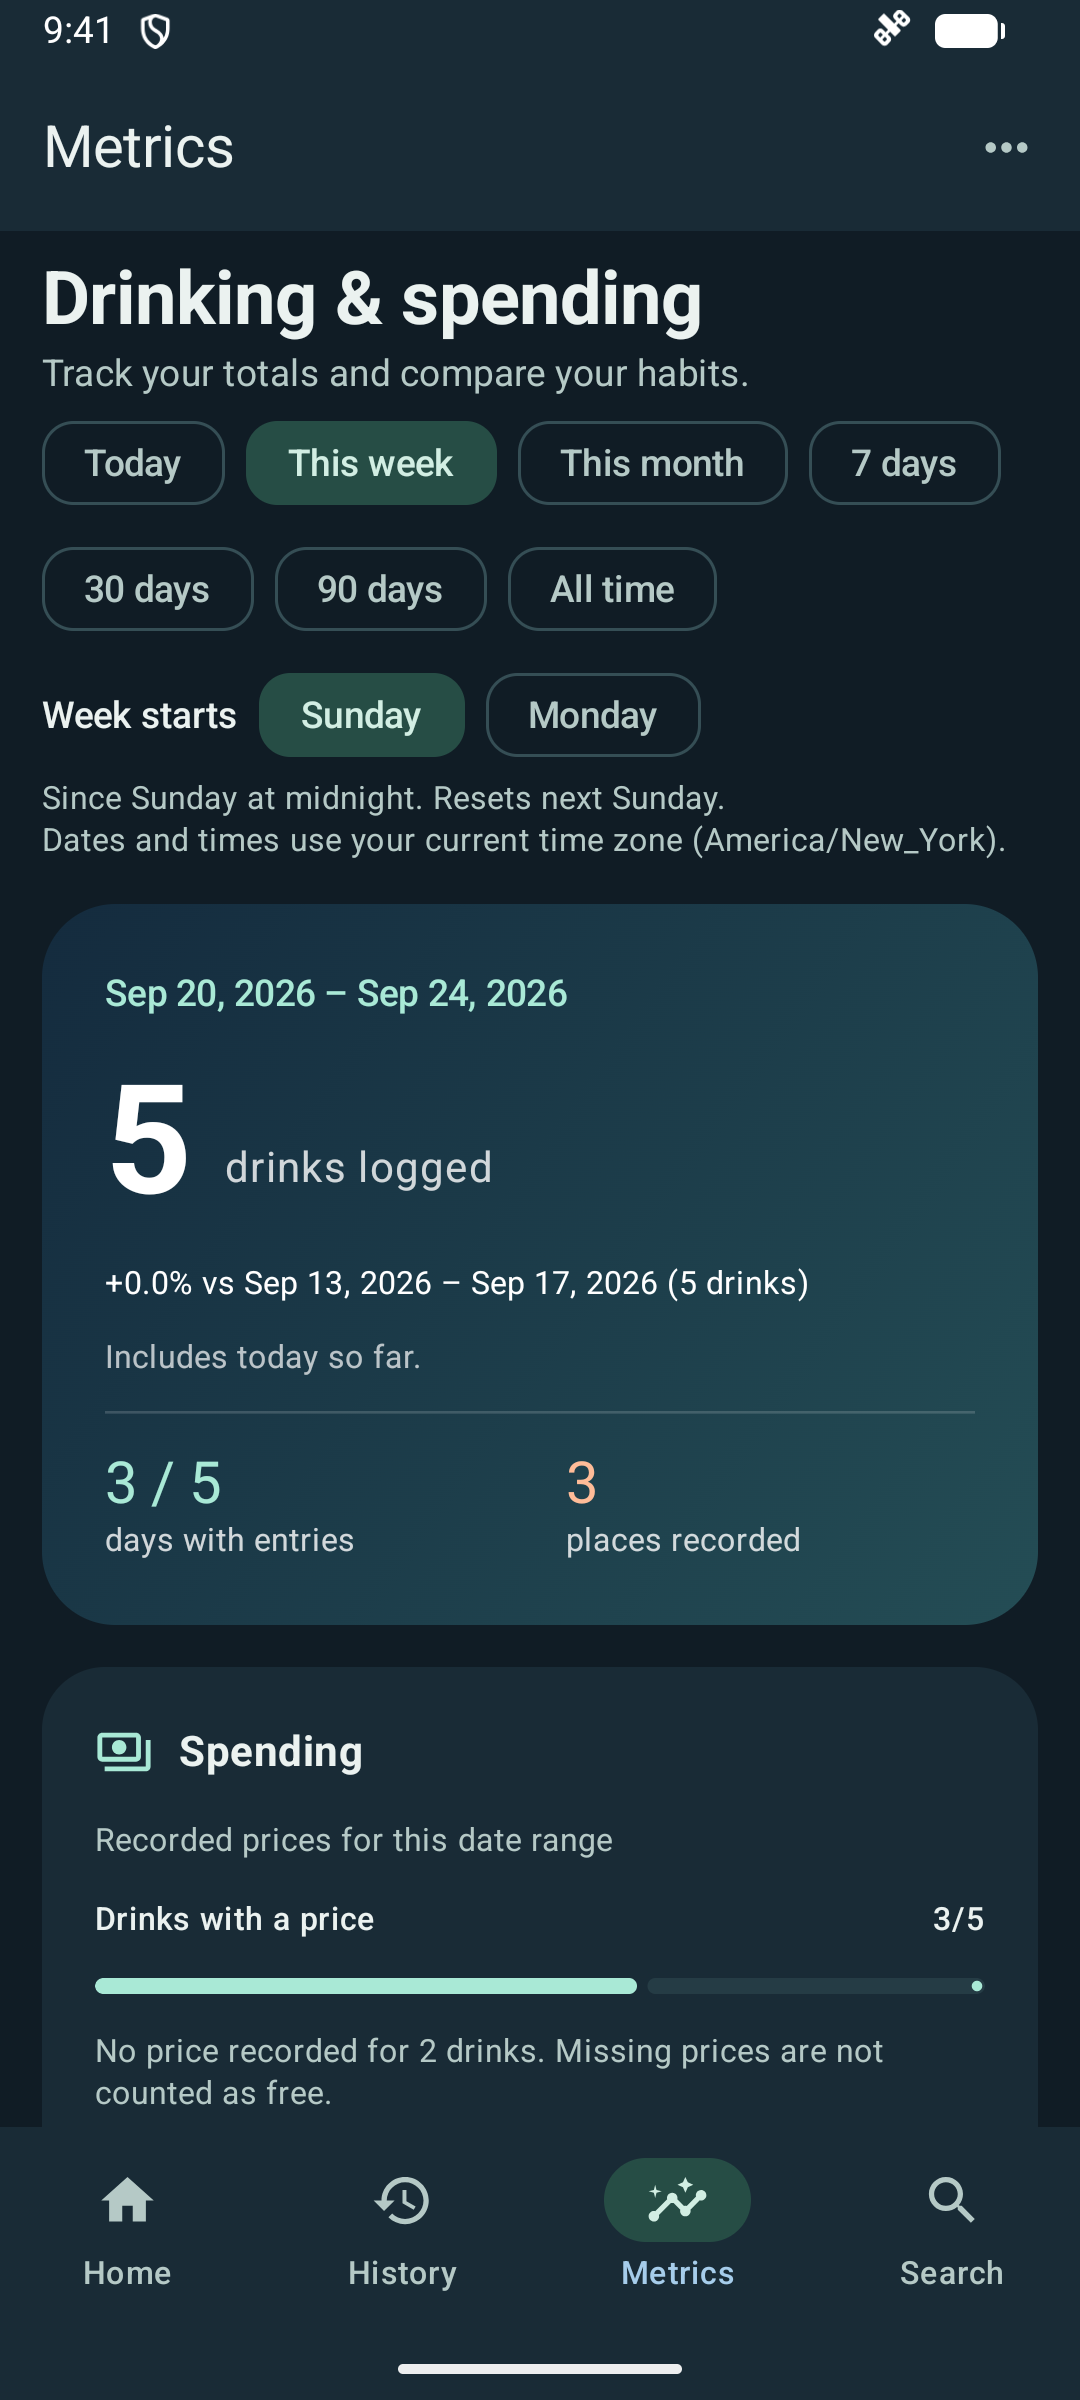
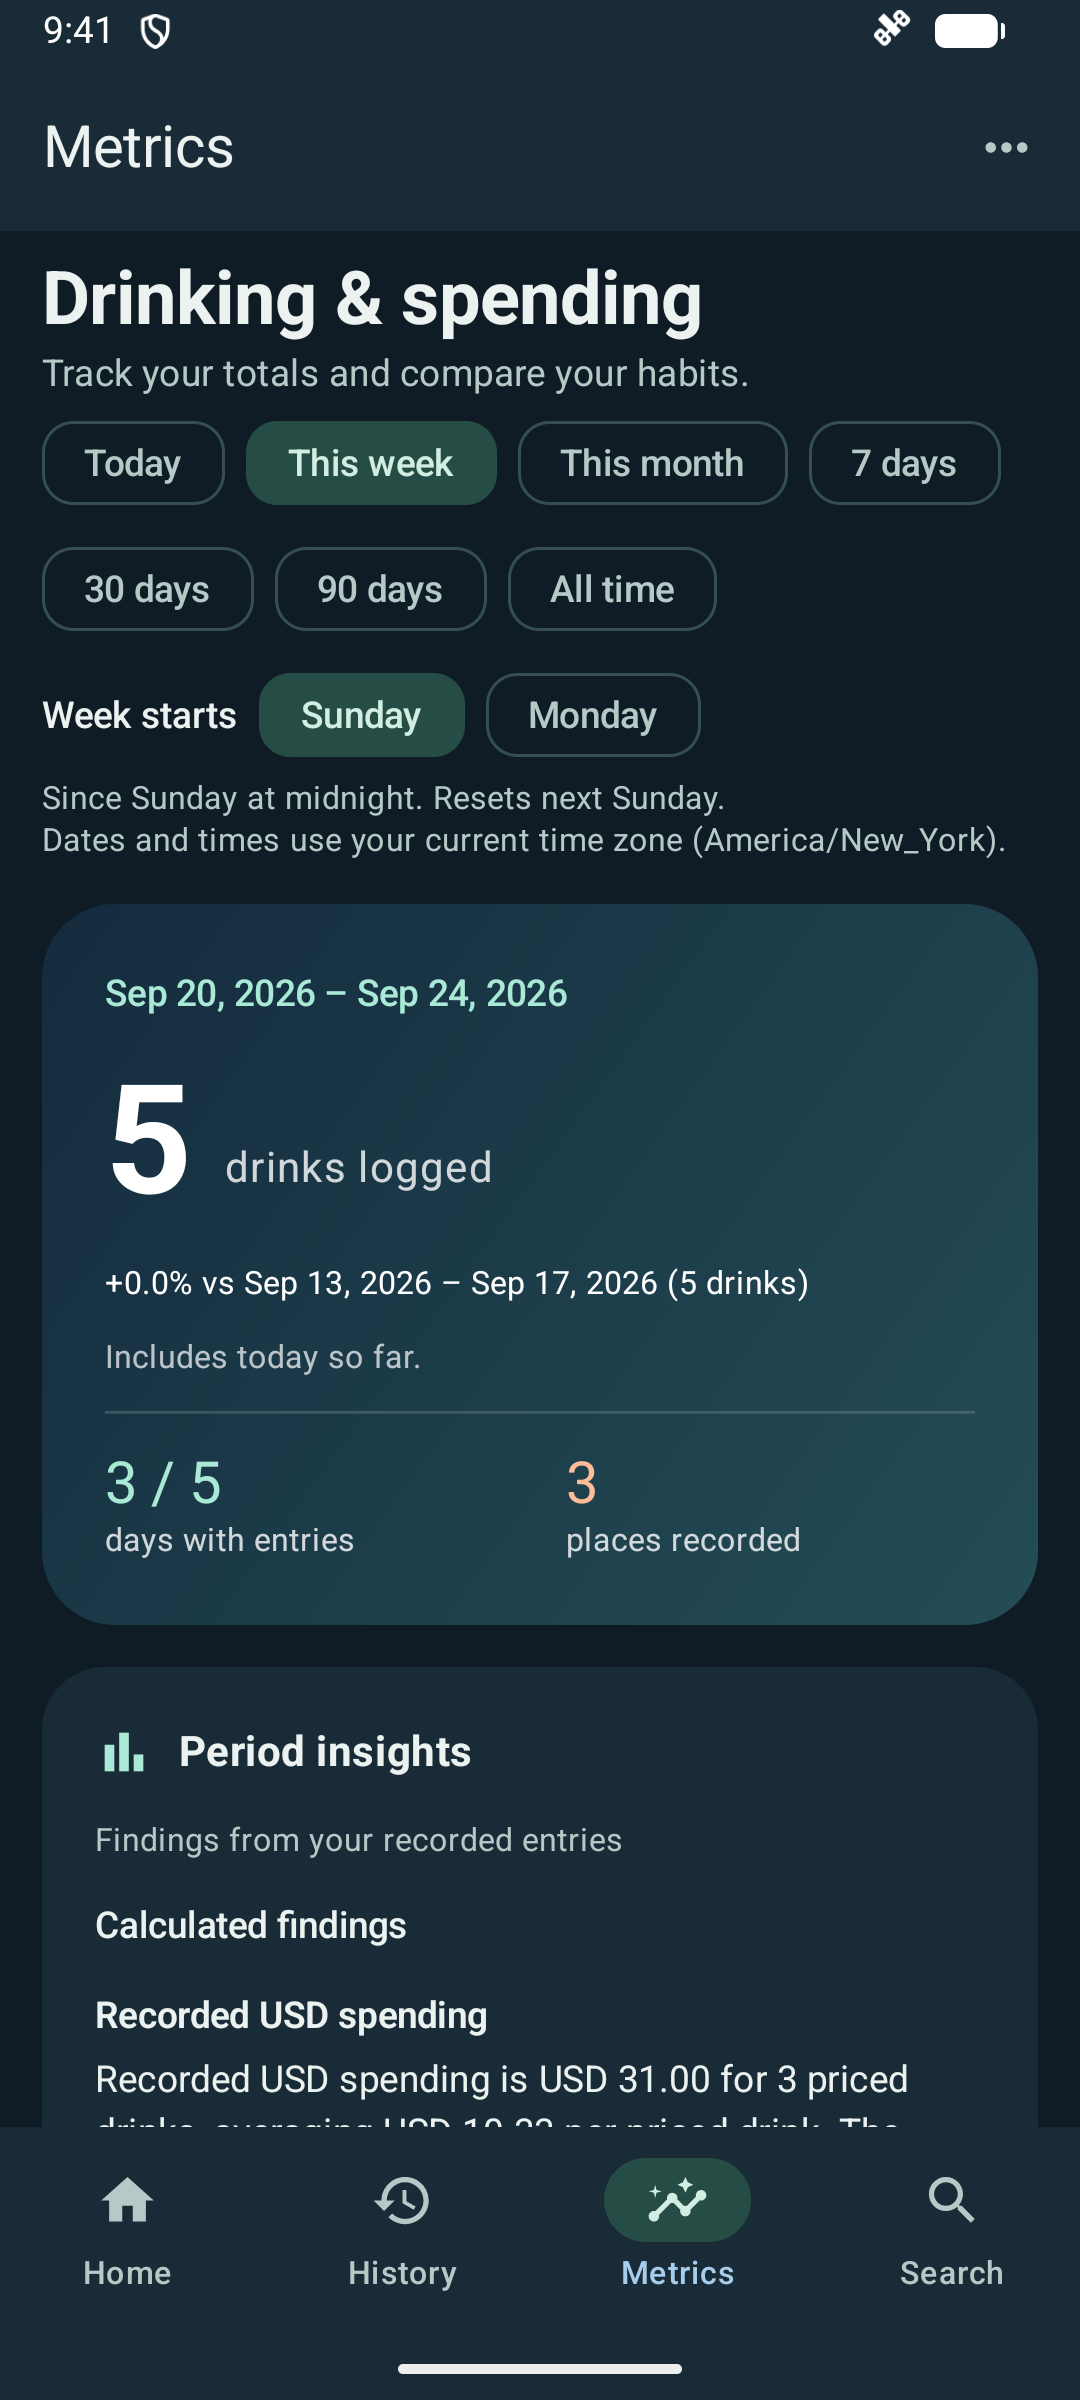
Align release marketing with current app insights

Changed region(s): [[0.0917, 0.7188, 0.8556, 0.875], [0.8556, 0.7812, 0.9167, 0.8125]]

diff --git a/src/App.tsx b/src/App.tsx
@@ -430,7 +430,7 @@ function HomePage() {
             <Icon name="book" /> No account needed
           </span>
           <span>
-            <Icon name="offline" /> Offline logging & insights
+            <Icon name="offline" /> Offline logging & calculated insights
           </span>
           <span>
             <Icon name="grid" /> Every feature free
@@ -547,8 +547,8 @@ function HomePage() {
             <h3>No account. Your device.</h3>
             <p>
               Logging and insights run on your device. Export a backup when you
-              want a separate copy. Google services for ads and purchases have
-              their own data practices.
+              want a separate copy. Google services for ads, purchases, and
+              optional AI have their own data practices.
             </p>
             <a href={href("/privacy/")} className="text-link">
               Read the privacy policy
@@ -733,7 +733,7 @@ const questions = [
   ],
   [
     "Does it work without an internet connection?",
-    "Logging, the drink catalog, saved places, and insights work offline. Ads and Google Play purchase checks use internet services.",
+    "Logging, the drink catalog, saved places, and calculated insights work offline. Ads, Google Play purchase checks, and Google AI services' independent updates, configuration and diagnostics can use internet services.",
   ],
   [
     "Can I use milliliters instead of ounces?",
@@ -749,7 +749,7 @@ const questions = [
   ],
   [
     "Can I save different prices for the same drink?",
-    "Yes. Add any named prices to a favorite: Regular, Happy hour, Game day, or your own labels. Enter the final amount for each option, then select the one that applies on Home. That choice is reused for repeat +1 now taps. Prices do not switch automatically with times or game schedules, and discounts do not stack automatically. A widget uses the favorite's saved serving, default price, and place.",
+    "Yes. Save named prices to a favorite: Regular, Happy hour, Game day, or your own labels. Enter the final amount for each option, then select the one that applies on Home. That choice is reused for repeat +1 now taps. Prices do not switch automatically with times or game schedules, and discounts do not stack automatically. A widget uses the favorite's saved serving, default price, and place.",
   ],
   [
     "Can I keep different favorites for different pubs?",
@@ -1212,6 +1212,12 @@ function InsightsPage() {
           offer rolling periods, such as the last 24 hours. Time labels follow
           your phone’s 12- or 24-hour clock setting.
         </p>
+        <p className="calendar-explanation">
+          Period insights highlights changes in your recorded totals. Open a
+          finding to see the supporting entries and what the comparison
+          includes. Calculated findings work offline on every phone that runs
+          BarTally, with no AI model needed.
+        </p>
         <div className="insight-grid">
           {[
             [
@@ -1412,6 +1418,16 @@ function InsightsPage() {
           determine whether you can drive.
         </p>
       </aside>
+      <p className="section-shell">
+        <small>
+          Optional local AI explanations appear only on{" "}
+          <a href="https://developers.google.com/ml-kit/genai#prompt_api_device_support">
+            supported phones
+          </a>{" "}
+          with an already available model. BarTally never downloads models.{" "}
+          <a href={href("/privacy/#privacy-local-ai")}>Privacy details</a>.
+        </small>
+      </p>
       <ClosingNote />
     </>
   );

diff --git a/README.md b/README.md
@@ -8,6 +8,12 @@ The voice is direct: **Track your drinks. Track your spending.** Pages explain h
 
 The app’s Backup & restore screen exports portable JSON through Android’s file picker. Restore previews and merges missing records after the user selects **Restore backup**. Current personal records with matching IDs are kept, and repeated imports do not duplicate them. Untouched built-in starter favorites can be replaced by their backup versions; edited favorites remain protected. History snapshots, custom drinks, favorites with prices and places, and saved places are included; settings, widgets, catalog data, and purchase receipts are not. The privacy policy explains that files contain readable personal data and are stored where the user chooses. No crash-reporting SDK or cloud-sync claim has been added.
 
+## Release materials review — September 25, 2026
+
+The app and insights pages match the pending Android release: quantity and time controls, manual JSON recovery, configurable alcohol units, calendar periods, rapid widget logging, and calculated period findings with supporting entries. Optional local AI remains a short note linked to Google's supported-device list and requires an already available model; BarTally never requests model downloads. The privacy policy already covers the included SDKs and support contact.
+
+Both eight-image regional sets, the app icon, social preview, and favicons match the reviewed Android marketing assets. Images omit ads and use fictional entries. The existing beta enrollment route remains until the production listing is confirmed publicly available; publishing this website does not publish the Android app.
+
 ## Local development
 
 The app overview also explains favorites with saved servings, places, and arbitrary named prices. Users select an exact amount manually; there are no automatic happy-hour schedules or stacked discounts. Home repeats the selected price and place. In Search and Favorites, **Log drink** opens quantity and time controls: one drink and **Now** are the defaults, with an earlier local date and time available. Favorites also offers **+1 now** for immediate logging. Logging overrides do not edit the saved favorite; widgets use its saved defaults. The built-in catalog contains 8,200+ entries, including the expanded High Noon, Two Robbers, Suntory -196, Surfside, and Stateside listings, and remains separate from custom drinks and recorded history. ABV and calories are not available for every entry. The privacy policy includes saved favorite details and their possible display on widgets, UTC timestamp storage, and local calendar calculations. History can backfill drinks from favorites, the catalog, or custom drinks with quantity, serving, local date/time, optional price, place, and notes. Creating a custom drink only adds its searchable definition; logging and favoriting are separate actions.
